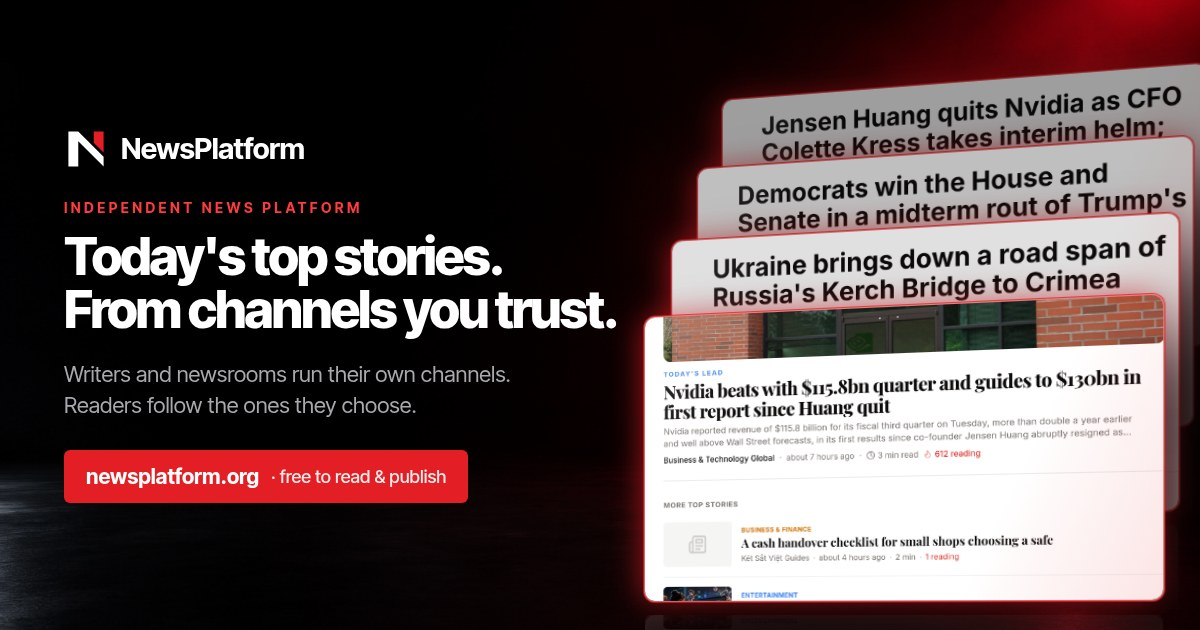
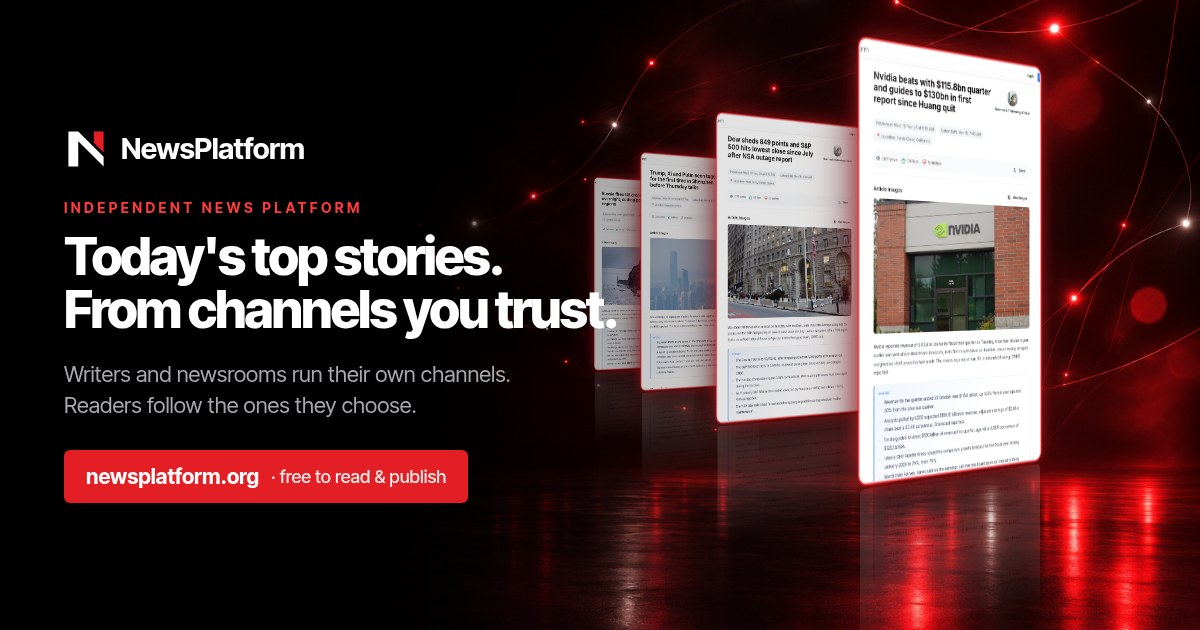
Share card v6: real newest article pages on glowing glass panels

diff --git a/scripts/prerender.ts b/scripts/prerender.ts
@@ -64,12 +64,12 @@ function headTagsFor(page: MarketingPage): string {
     `<meta data-rh="true" property="og:image" content="${image}" />`,
     `<meta data-rh="true" property="og:image:width" content="1200" />`,
     `<meta data-rh="true" property="og:image:height" content="630" />`,
-    `<meta data-rh="true" property="og:image:alt" content="NewsPlatform: real NewsPlatform pages stacked in 3D, showing the homepage and stories on the Kerch Bridge, the US midterms and Nvidia" />`,
+    `<meta data-rh="true" property="og:image:alt" content="NewsPlatform: real NewsPlatform article pages on glowing glass panels, showing stories on Nvidia earnings, the Dow sell-off, Trump, Xi and Putin in Shenzhen, and Russian drone strikes on Ukraine" />`,
     `<meta data-rh="true" name="twitter:card" content="summary_large_image" />`,
     `<meta data-rh="true" name="twitter:title" content="${esc(page.title)}" />`,
     `<meta data-rh="true" name="twitter:description" content="${esc(page.description)}" />`,
     `<meta data-rh="true" name="twitter:image" content="${image}" />`,
-    `<meta data-rh="true" name="twitter:image:alt" content="NewsPlatform: real NewsPlatform pages stacked in 3D, showing the homepage and stories on the Kerch Bridge, the US midterms and Nvidia" />`,
+    `<meta data-rh="true" name="twitter:image:alt" content="NewsPlatform: real NewsPlatform article pages on glowing glass panels, showing stories on Nvidia earnings, the Dow sell-off, Trump, Xi and Putin in Shenzhen, and Russian drone strikes on Ukraine" />`,
     `<script data-rh="true" type="application/ld+json">${jsonLdScript(
       pageJsonLd(page)
     )}</script>`,

diff --git a/client/index.html b/client/index.html
@@ -26,12 +26,12 @@
     <meta property="og:image" content="https://www.newsplatform.org/og-share.jpg" />
     <meta property="og:image:width" content="1200" />
     <meta property="og:image:height" content="630" />
-    <meta property="og:image:alt" content="NewsPlatform: real NewsPlatform pages stacked in 3D, showing the homepage and stories on the Kerch Bridge, the US midterms and Nvidia" />
+    <meta property="og:image:alt" content="NewsPlatform: real NewsPlatform article pages on glowing glass panels, showing stories on Nvidia earnings, the Dow sell-off, Trump, Xi and Putin in Shenzhen, and Russian drone strikes on Ukraine" />
     <meta name="twitter:card" content="summary_large_image" />
     <meta name="twitter:title" content="NewsPlatform" />
     <meta name="twitter:description" content="Today's top stories from independent channels." />
     <meta name="twitter:image" content="https://www.newsplatform.org/og-share.jpg" />
-    <meta name="twitter:image:alt" content="NewsPlatform: real NewsPlatform pages stacked in 3D, showing the homepage and stories on the Kerch Bridge, the US midterms and Nvidia" />
+    <meta name="twitter:image:alt" content="NewsPlatform: real NewsPlatform article pages on glowing glass panels, showing stories on Nvidia earnings, the Dow sell-off, Trump, Xi and Putin in Shenzhen, and Russian drone strikes on Ukraine" />
     
     <!-- Google Fonts: Inter (UI) + Playfair Display (headlines) -->
     <link rel="preconnect" href="https://fonts.googleapis.com">

diff --git a/client/src/components/seo-head.tsx b/client/src/components/seo-head.tsx
@@ -30,13 +30,13 @@ export function SeoHead({ page }: { page: MarketingPage }) {
       <meta property="og:image" content={image} />
       <meta property="og:image:width" content="1200" />
       <meta property="og:image:height" content="630" />
-      <meta property="og:image:alt" content="NewsPlatform: real NewsPlatform pages stacked in 3D, showing the homepage and stories on the Kerch Bridge, the US midterms and Nvidia" />
+      <meta property="og:image:alt" content="NewsPlatform: real NewsPlatform article pages on glowing glass panels, showing stories on Nvidia earnings, the Dow sell-off, Trump, Xi and Putin in Shenzhen, and Russian drone strikes on Ukraine" />
 
       <meta name="twitter:card" content="summary_large_image" />
       <meta name="twitter:title" content={page.title} />
       <meta name="twitter:description" content={page.description} />
       <meta name="twitter:image" content={image} />
-      <meta name="twitter:image:alt" content="NewsPlatform: real NewsPlatform pages stacked in 3D, showing the homepage and stories on the Kerch Bridge, the US midterms and Nvidia" />
+      <meta name="twitter:image:alt" content="NewsPlatform: real NewsPlatform article pages on glowing glass panels, showing stories on Nvidia earnings, the Dow sell-off, Trump, Xi and Putin in Shenzhen, and Russian drone strikes on Ukraine" />
 
       <script type="application/ld+json">{JSON.stringify(pageJsonLd(page))}</script>
     </Helmet>
